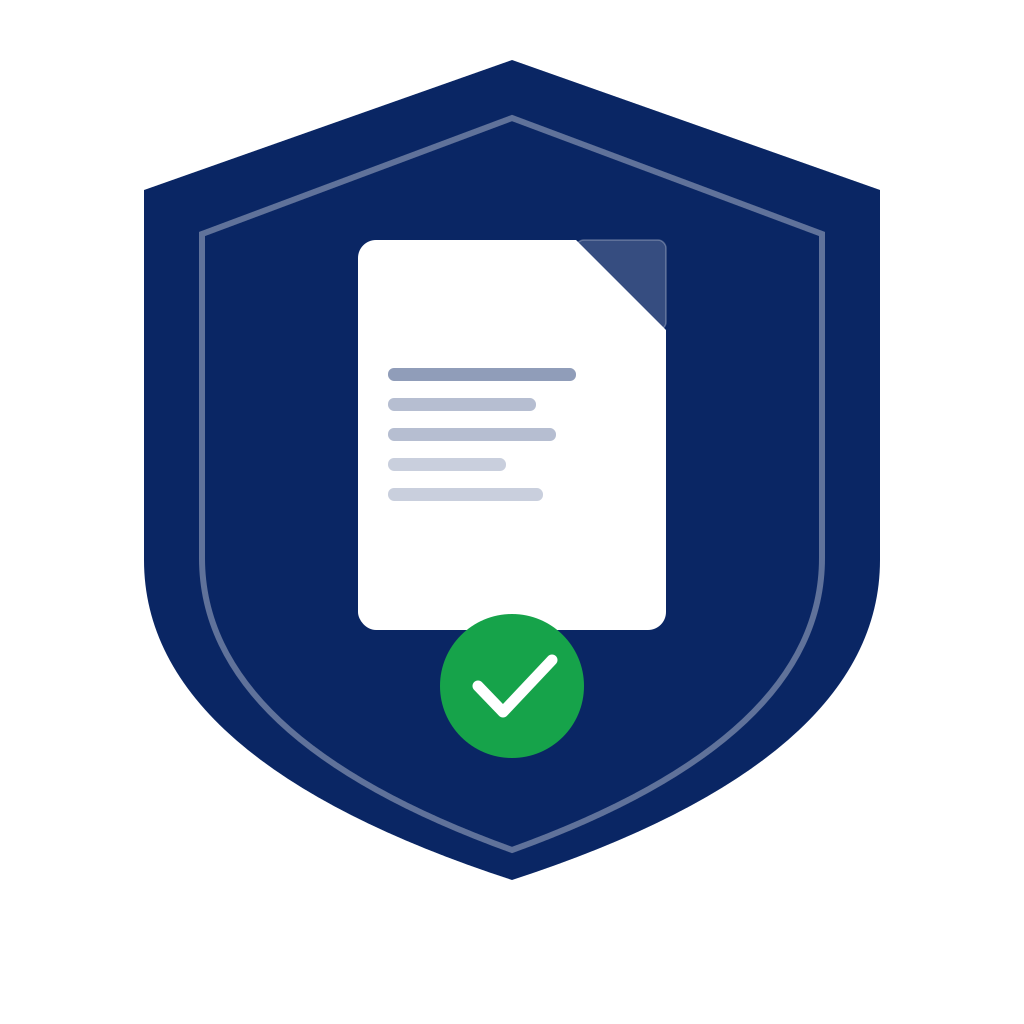
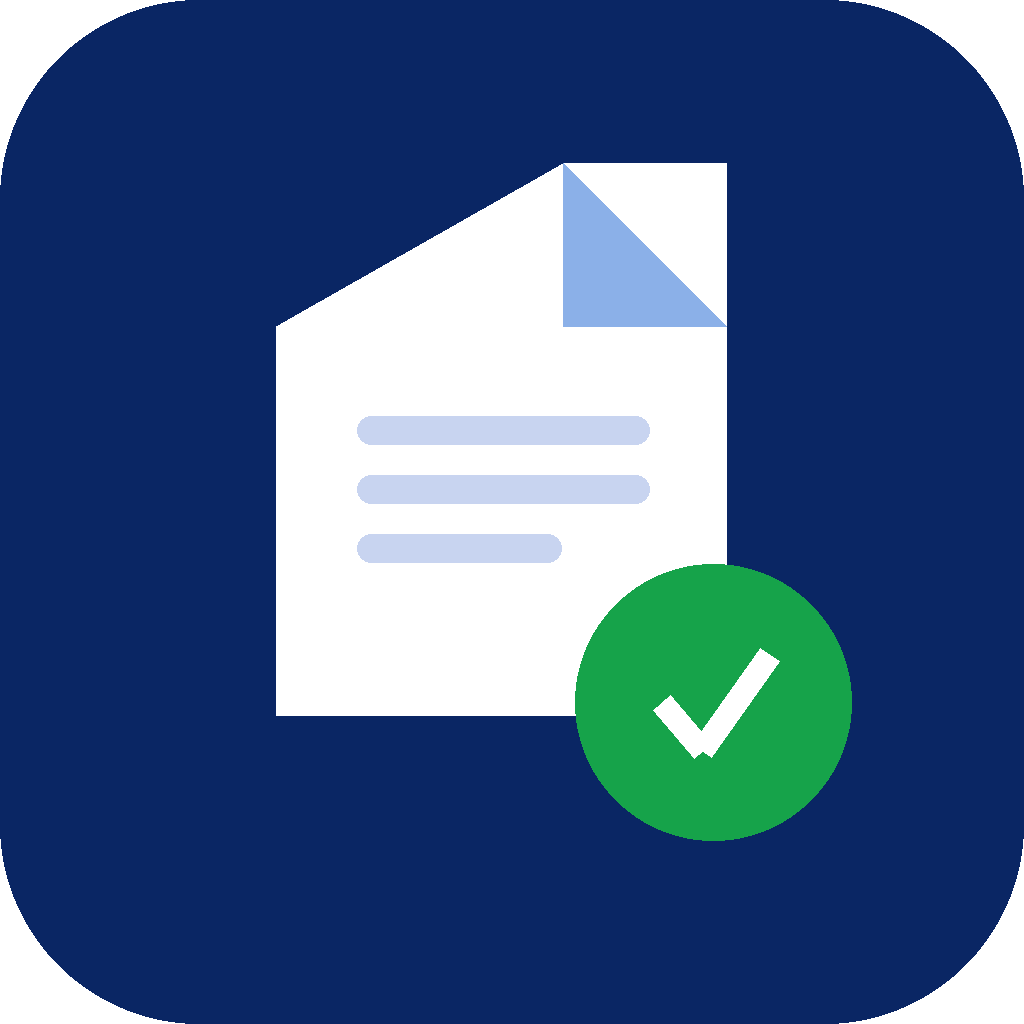
Yeni uygulama ikonu ve klavye düzeltmesi

diff --git a/src/screens/AIChatScreen.js b/src/screens/AIChatScreen.js
@@ -149,7 +149,7 @@ export default function AIChatScreen() {
     }
 
     return (
-        <SafeAreaView style={styles.container}>
+        <SafeAreaView style={styles.container} edges={['top', 'left', 'right']}>
             {/* Üst bar */}
             <View style={styles.ustBar}>
                 <View style={styles.ustBarSol}>
@@ -180,8 +180,8 @@ export default function AIChatScreen() {
 
             <KeyboardAvoidingView
                 style={{ flex: 1 }}
-                behavior="padding"
-                keyboardVerticalOffset={0}
+                behavior={Platform.OS === 'ios' ? 'padding' : 'height'}
+                keyboardVerticalOffset={Platform.OS === 'ios' ? 0 : 24}
             >
                 {/* Mesaj alanı veya hoşgeldin */}
                 {mesajlar.length === 0 ? (
@@ -648,6 +648,7 @@ const styles = StyleSheet.create({
     girdiAlan: {
         flexDirection: 'row',
         padding: 10,
+        paddingBottom: Platform.OS === 'android' ? 16 : 10,
         backgroundColor: '#fff',
         borderTopWidth: 1,
         borderTopColor: '#e2e8f0',
